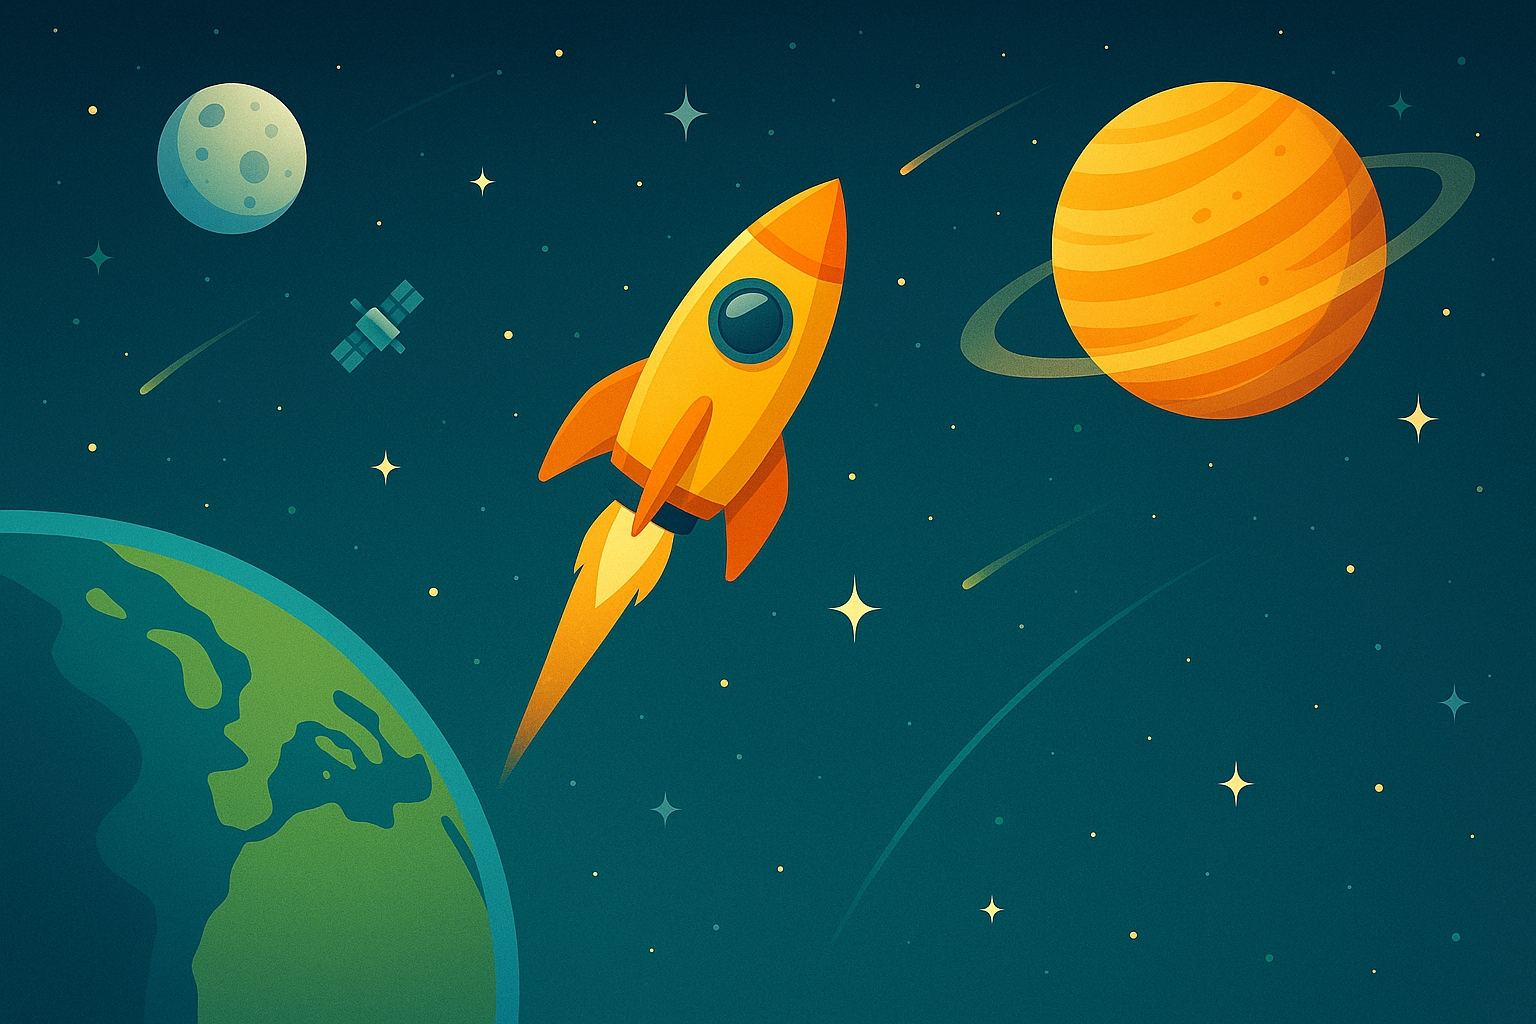
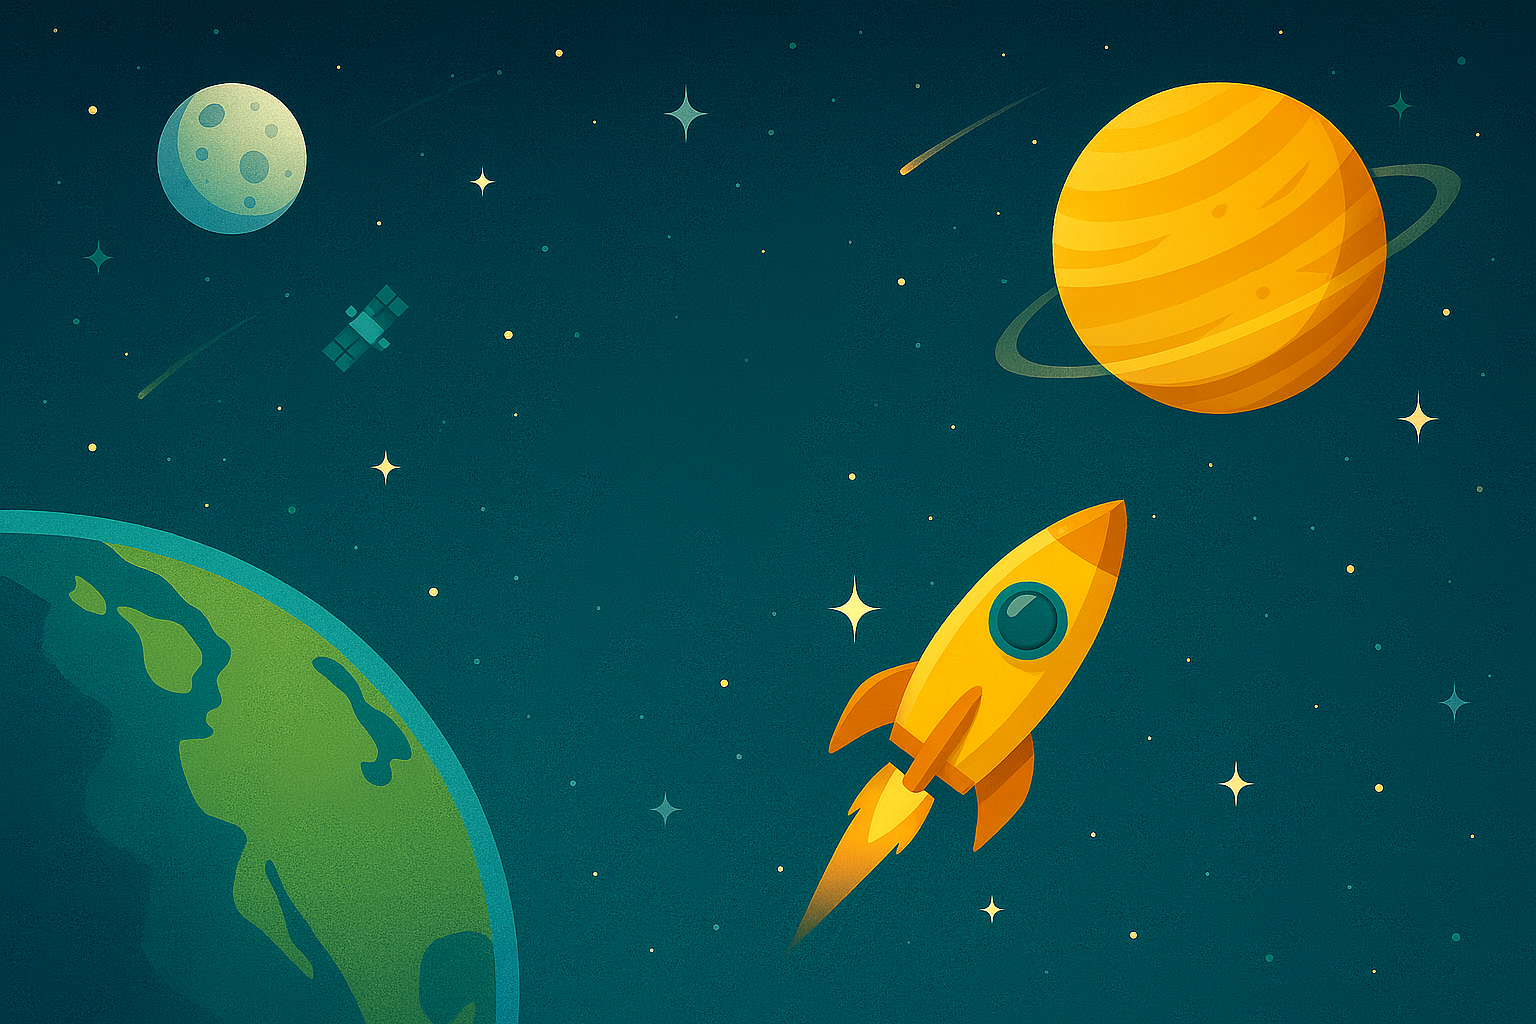
Add 2 themes winter, space

diff --git a/constants.tsx b/constants.tsx
@@ -242,6 +242,90 @@ const SummerThemeDecorator: React.FC = React.memo(() => (
     </>
 ));
 
+const WinterThemeDecorator: React.FC = React.memo(() => (
+    <>
+        <div className="absolute inset-0 overflow-hidden pointer-events-none z-0">
+            {[...Array(40)].map((_, i) => (
+                <div key={i} className="absolute text-blue-200/60" style={{
+                    top: '-10%',
+                    left: `${-10 + Math.random() * 120}%`,
+                    fontSize: `${0.6 + Math.random() * 1.0}rem`,
+                    animationName: 'snowfall, sway',
+                    animationDuration: `${8 + Math.random() * 8}s, ${3 + Math.random() * 4}s`,
+                    animationDelay: `${Math.random() * 12}s, ${Math.random() * 4}s`,
+                    animationTimingFunction: 'linear, ease-in-out',
+                    animationIterationCount: 'infinite, infinite',
+                    // @ts-ignore
+                    '--sway-amount': `${(Math.random() - 0.5) * 120}px`,
+                }}>
+                    {Math.random() > 0.3 ? '❄' : '•'}
+                </div>
+            ))}
+        </div>
+        <style>{`
+            @keyframes snowfall {
+                from {
+                    transform: translateY(0vh) rotate(0deg);
+                    opacity: 1;
+                }
+                to {
+                    transform: translateY(105vh) rotate(360deg);
+                    opacity: 0;
+                }
+            }
+             @keyframes sway {
+                0%, 100% { margin-left: 0; }
+                50% { margin-left: var(--sway-amount); }
+            }
+        `}</style>
+    </>
+));
+
+const SpaceThemeDecorator: React.FC = React.memo(() => (
+    <>
+        <div className="absolute inset-0 overflow-hidden pointer-events-none z-0">
+            {/* Twinkling Stars */}
+            {[...Array(60)].map((_, i) => (
+                <div key={`star-${i}`} className="absolute w-0.5 h-0.5 bg-white rounded-full animate-twinkle" style={{
+                    top: `${Math.random() * 100}%`,
+                    left: `${Math.random() * 100}%`,
+                    animationDelay: `${Math.random() * 10}s`,
+                    animationDuration: `${2 + Math.random() * 3}s`,
+                    opacity: Math.random() * 0.5 + 0.2,
+                }}/>
+            ))}
+             {/* Shooting Stars */}
+            {[...Array(3)].map((_, i) => (
+                 <div key={`shooting-star-${i}`} className="absolute h-0.5 w-24 bg-gradient-to-l from-white/50 to-transparent animate-shooting-star" style={{
+                    top: `${Math.random() * 60 - 10}%`,
+                    left: `${Math.random() * 60 + 50}%`,
+                    animationDelay: `${3 + Math.random() * 12}s`,
+                    animationDuration: `${1.5 + Math.random() * 1}s`,
+                 }} />
+            ))}
+        </div>
+        <style>{`
+            @keyframes twinkle {
+                0%, 100% { opacity: 0.2; transform: scale(0.8); }
+                50% { opacity: 1; transform: scale(1.2); filter: drop-shadow(0 0 3px white); }
+            }
+            .animate-twinkle { animation: twinkle ease-in-out infinite; }
+
+            @keyframes shooting-star {
+                from {
+                    transform: rotate(135deg) translateX(0);
+                    opacity: 1;
+                }
+                to {
+                    transform: rotate(135deg) translateX(150vmin);
+                    opacity: 0;
+                }
+            }
+            .animate-shooting-star { animation: shooting-star linear infinite; }
+        `}</style>
+    </>
+));
+
 
 // --- Game Themes ---
 export const DEFAULT_THEME: GameTheme = { id: 'theme_default', name: 'Default', boardBg: 'bg-slate-900', cellBg: 'bg-transparent', gridColor: 'border-slate-500', nameColor: 'text-white' };
@@ -253,6 +337,8 @@ export const THEMES: GameTheme[] = [
     { id: 'theme_autumn', name: 'Autumn', boardBg: 'bg-[#4a2525]', boardBgImage: 'assets/themes/autumn.png', cellBg: 'bg-transparent', gridColor: 'border-orange-400/50', nameColor: 'text-orange-100', decoratorComponent: AutumnThemeDecorator },
     { id: 'theme_spring', name: 'Spring', boardBg: 'bg-[#4d7c5a]', boardBgImage: 'assets/themes/spring.png', cellBg: 'bg-transparent', gridColor: 'border-pink-200/60', nameColor: 'text-pink-50', decoratorComponent: SpringThemeDecorator },
     { id: 'theme_summer', name: 'Summer', boardBg: 'bg-[#005f73]', boardBgImage: 'assets/themes/summer.png', cellBg: 'bg-transparent', gridColor: 'border-yellow-200/50', nameColor: 'text-yellow-50', decoratorComponent: SummerThemeDecorator },
+    { id: 'theme_winter', name: 'Winter', boardBg: 'bg-[#1a2b4a]', boardBgImage: 'assets/themes/winter.png', cellBg: 'bg-transparent', gridColor: 'border-blue-200/50', nameColor: 'text-blue-100', decoratorComponent: WinterThemeDecorator },
+    { id: 'theme_space', name: 'Space', boardBg: 'bg-[#0c0a1f]', boardBgImage: 'assets/themes/space.png', cellBg: 'bg-transparent', gridColor: 'border-purple-400/50', nameColor: 'text-purple-200', decoratorComponent: SpaceThemeDecorator },
 ];
 
 // --- Piece Styles ---

diff --git a/hooks/useGameLogic.ts b/hooks/useGameLogic.ts
@@ -220,7 +220,6 @@ export const useGameLogic = (
 
   // This function now correctly takes no arguments. It resets the game state
   // and sets isDecidingFirst to true, which triggers the first-move animation.
-  // FIX: Changed function signature to accept no arguments to match its usage.
   const startGame = useCallback(() => {
     stopTimers();
     setBoard(createEmptyBoard());
